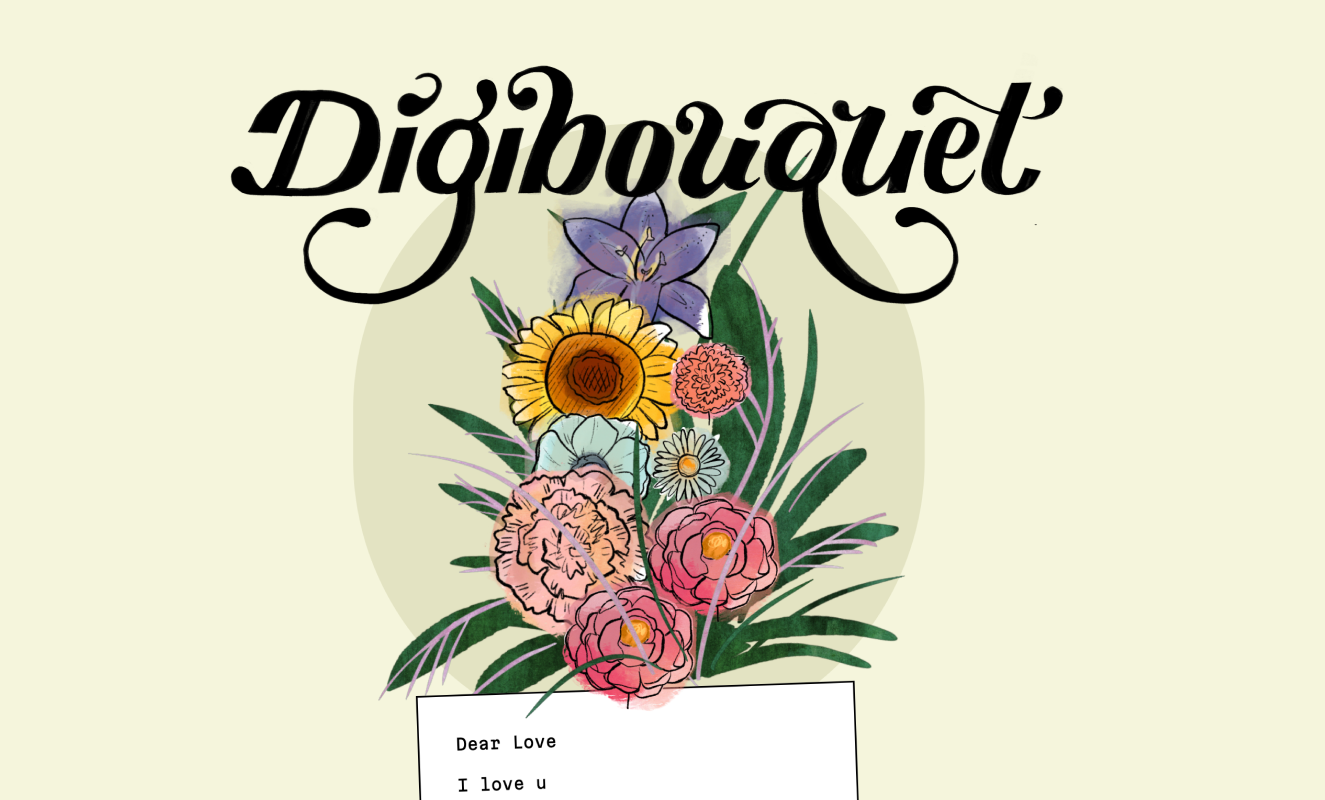
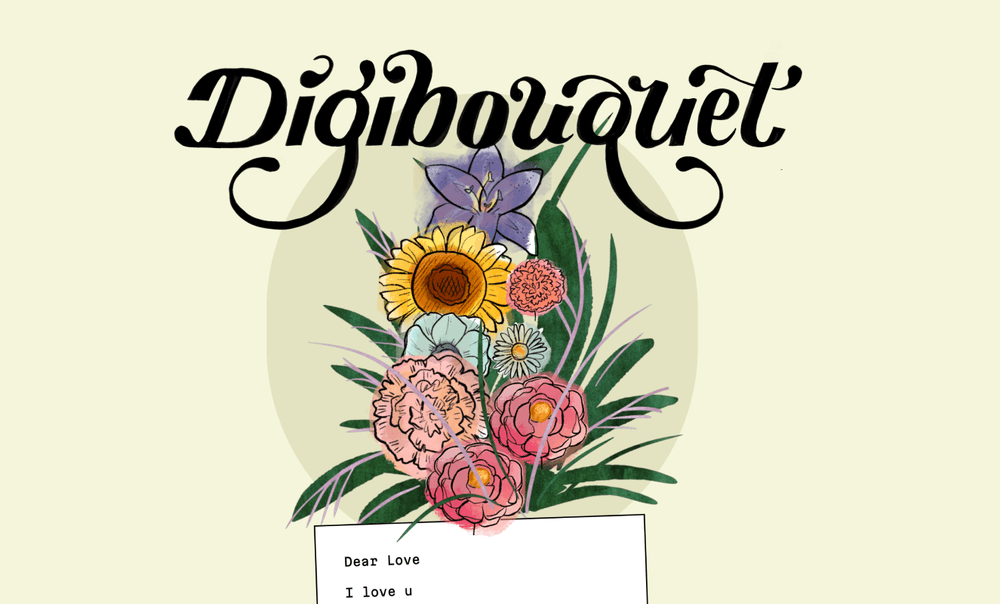
feat(perf): convert images to webp and add caching headers - Compressed all images and converted to WebP for ~90% size reduction - Added long-term caching headers in next.config.mjs - Updated all image references in code from .png to .webp - Enhanced CardWriter responsiveness and Arabic layout - Imp

diff --git a/components/bouquet/Bouquet.tsx b/components/bouquet/Bouquet.tsx
@@ -12,15 +12,15 @@ export default function Bouquet({ bouquet, lang }: BouquetReadOnlyProps & { lang
   };
 
   const calculateFontSize = (text: string, containerWidth = 280) => {
-    if (!text) return 13;
+    if (!text) return 16;
     const charCount = text.length;
-    const minSize = 10;
-    const maxSize = 15;
-    return Math.max(minSize, Math.min(maxSize, containerWidth / (charCount * 0.5)));
+    const minSize = 12;
+    const maxSize = 24;
+    return Math.max(minSize, Math.min(maxSize, containerWidth / (charCount * 0.45)));
   };
 
   const messageFontSize = calculateFontSize(bouquet.letter.message);
-  const senderFontSize = Math.max(10, Math.min(14, 280 / ((bouquet.letter.sender.length || 1) * 0.6)));
+  const senderFontSize = Math.max(11, Math.min(16, 280 / ((bouquet.letter.sender.length || 1) * 0.6)));
 
   return (
     // FIXED: Reduced paddingBottom from 160px to 145px
@@ -29,7 +29,7 @@ export default function Bouquet({ bouquet, lang }: BouquetReadOnlyProps & { lang
       {/* Ramadan logo - FIXED: More compact */}
       <div className="text-center pt-3 pb-1">
         <img
-          src="/ramadan.png"
+          src="/ramadan.webp"
           alt="Ramadan Kareem"
           className="mx-auto"
           width={170}
@@ -49,7 +49,7 @@ export default function Bouquet({ bouquet, lang }: BouquetReadOnlyProps & { lang
 
           {/* Bottom bush */}
           <img
-            src={`/${bouquet.mode}/bush/bush-${bouquet.greenery + 1}.png`}
+            src={`/${bouquet.mode}/bush/bush-${bouquet.greenery + 1}.webp`}
             alt=""
             className="absolute top-1/2 left-1/2 z-0 transform -translate-x-1/2 -translate-y-1/2"
             style={{ width: '550px', height: 'auto' }}
@@ -82,7 +82,7 @@ export default function Bouquet({ bouquet, lang }: BouquetReadOnlyProps & { lang
                         style={{ order: index }}
                       >
                         <img
-                          src={`/${bouquet.mode}/flowers/${flowerData.name}.png`}
+                          src={`/${bouquet.mode}/flowers/${flowerData.name}.webp`}
                           alt=""
                           width={dimensions}
                           height={dimensions}
@@ -99,7 +99,7 @@ export default function Bouquet({ bouquet, lang }: BouquetReadOnlyProps & { lang
 
           {/* Top bush */}
           <img
-            src={`/${bouquet.mode}/bush/bush-${bouquet.greenery + 1}-top.png`}
+            src={`/${bouquet.mode}/bush/bush-${bouquet.greenery + 1}-top.webp`}
             alt=""
             className="absolute top-1/2 left-1/2 z-12 transform -translate-x-1/2 -translate-y-1/2 pointer-events-none"
             style={{ width: '550px', height: 'auto' }}
@@ -122,10 +122,10 @@ export default function Bouquet({ bouquet, lang }: BouquetReadOnlyProps & { lang
 
               {/* Recipient */}
               <div className="mb-2" style={{ textAlign: lang === 'ar' ? 'right' : 'left' }}>
-                <span className="text-[8px] text-gray-400 block mb-0.5">
+                <span className="text-[10px] text-gray-500 block mb-0.5 font-bold opacity-70">
                   {lang === 'ar' ? "إلى" : "Dear"}
                 </span>
-                <p className="text-xs font-bold">
+                <p className="text-sm font-bold">
                   {bouquet.letter.recipient}
                 </p>
               </div>
@@ -142,19 +142,19 @@ export default function Bouquet({ bouquet, lang }: BouquetReadOnlyProps & { lang
 
               {/* Footer */}
               <div className="flex justify-between items-end mt-2 pt-2">
-                <div className={lang === 'ar' ? 'order-2' : 'order-1'}>
+                <div>
                   <img
-                    src="/crescent.png"
+                    src="/crescent.webp"
                     alt=""
-                    width={18}
-                    height={18}
+                    width={24}
+                    height={24}
                     className={lang === 'ar' ? 'scale-x-[-1]' : ''}
                     loading="eager"
                   />
                 </div>
 
-                <div className={lang === 'ar' ? 'order-1' : 'order-2'} style={{ textAlign: lang === 'ar' ? 'left' : 'right' }}>
-                  <span className="text-[8px] text-gray-400 block mb-0.5">
+                <div style={{ textAlign: lang === 'ar' ? 'left' : 'right' }}>
+                  <span className="text-[10px] text-gray-500 block mb-0.5 font-bold opacity-70">
                     {lang === 'ar' ? "من" : "Sincerely,"}
                   </span>
                   <p className="font-bold text-xs" style={{ fontSize: `${senderFontSize}px` }}>

diff --git a/components/stages/CardWriter.tsx b/components/stages/CardWriter.tsx
@@ -13,21 +13,21 @@ export default function CardWriter() {
           {/* White card container with black border */}
           <div className="hidden md:flex flex-row items-center justify-center -space-x-12">
             <Image
-              src={`/full/flowers/daisy.png`}
+              src={`/full/flowers/daisy.webp`}
               alt="card front"
               width={140}
               height={200}
               className="-rotate-12 hover:-translate-y-4 transition-all duration-300"
             />
             <Image
-              src={`/full/flowers/lily.png`}
+              src={`/full/flowers/lily.webp`}
               alt="card front"
               width={140}
               height={200}
               className="-translate-y-5 hover:-translate-y-4 transition-all duration-300"
             />
             <Image
-              src={`/full/flowers/anemone.png`}
+              src={`/full/flowers/anemone.webp`}
               alt="card front"
               width={140}
               height={200}
@@ -35,7 +35,7 @@ export default function CardWriter() {
             />
           </div>
 
-          <div className="bg-white border-2 border-black p-10 max-w-lg mx-4 md:mx-10 relative" dir={lang === 'ar' ? 'rtl' : 'ltr'}>
+          <div className="bg-white border-2 border-black p-6 md:p-10 w-full max-w-[90vw] md:max-w-lg mx-auto relative md:mx-10" dir={lang === 'ar' ? 'rtl' : 'ltr'}>
             {/* Crescent Moon Image - Bottom Left for Arabic, Bottom Right for English (as per user request "maybe even not add crsecent just add crescent finally when done typing") - Wait, user said "maybe even not add crsecent just add crescent finally when done typing". 
              Let's re-read: "okay maybe even not add crsecent just add crescent finally when done typing."
              So REMOVE crescent from here. OK. */}
@@ -110,21 +110,21 @@ export default function CardWriter() {
 
           <div className="hidden md:flex flex-row items-center justify-center -space-x-12">
             <Image
-              src={`/full/flowers/carnation.png`}
+              src={`/full/flowers/carnation.webp`}
               alt="card front"
               width={140}
               height={200}
               className="-rotate-12 hover:-translate-y-4 transition-all duration-300"
             />
             <Image
-              src={`/full/flowers/sunflower.png`}
+              src={`/full/flowers/sunflower.webp`}
               alt="card front"
               width={140}
               height={200}
               className="-translate-y-5 hover:-translate-y-4 transition-all duration-300"
             />
             <Image
-              src={`/full/flowers/peony.png`}
+              src={`/full/flowers/peony.webp`}
               alt="card front"
               width={140}
               height={200}

diff --git a/components/bouquet/BouquetOnly.tsx b/components/bouquet/BouquetOnly.tsx
@@ -23,7 +23,7 @@ export default function BouquetOnly({ bouquet }: BouquetReadOnlyProps) {
           {/* Bottom bush layer */}
 
           <Image
-            src={`/${bouquet.mode}/bush/bush-${bouquet.greenery + 1}.png`}
+            src={`/${bouquet.mode}/bush/bush-${bouquet.greenery + 1}.webp`}
             alt="bush background"
             width={600}
             height={500}
@@ -52,8 +52,8 @@ export default function BouquetOnly({ bouquet }: BouquetReadOnlyProps) {
                     // If flowerOrder exists, use it; otherwise use default order
                     const index = bouquet.flowerOrder?.length
                       ? bouquet.flowerOrder[
-                          flowerIndex * flower.count + instanceIndex
-                        ] ?? flowerIndex * flower.count + instanceIndex
+                      flowerIndex * flower.count + instanceIndex
+                      ] ?? flowerIndex * flower.count + instanceIndex
                       : flowerIndex * flower.count + instanceIndex;
 
                     // Get dimensions based on flower size
@@ -67,7 +67,7 @@ export default function BouquetOnly({ bouquet }: BouquetReadOnlyProps) {
                       >
                         {/* Individual flower image */}
                         <Image
-                          src={`/${bouquet.mode}/flowers/${flowerData.name}.png`}
+                          src={`/${bouquet.mode}/flowers/${flowerData.name}.webp`}
                           alt={flowerData.name}
                           width={dimensions}
                           height={dimensions}
@@ -86,7 +86,7 @@ export default function BouquetOnly({ bouquet }: BouquetReadOnlyProps) {
 
           <div>
             <Image
-              src={`/${bouquet.mode}/bush/bush-${bouquet.greenery + 1}-top.png`}
+              src={`/${bouquet.mode}/bush/bush-${bouquet.greenery + 1}-top.webp`}
               alt="bush top"
               width={600}
               height={500}

diff --git a/components/stages/BouquetCustomizer.tsx b/components/stages/BouquetCustomizer.tsx
@@ -76,7 +76,7 @@ export default function BouquetCustomizer() {
           {/* Bottom bush layer */}
 
           <Image
-            src={`/${bouquet.mode}/bush/bush-${bouquet.greenery + 1}.png`}
+            src={`/${bouquet.mode}/bush/bush-${bouquet.greenery + 1}.webp`}
             alt="bush background"
             width={600}
             height={500}
@@ -121,7 +121,7 @@ export default function BouquetCustomizer() {
                       >
                         {/* Individual flower image */}
                         <Image
-                          src={`/${bouquet.mode}/flowers/${flowerData.name}.png`}
+                          src={`/${bouquet.mode}/flowers/${flowerData.name}.webp`}
                           alt={flowerData.name}
                           width={dimensions}
                           height={dimensions}
@@ -140,7 +140,7 @@ export default function BouquetCustomizer() {
 
           <div>
             <Image
-              src={`/${bouquet.mode}/bush/bush-${bouquet.greenery + 1}-top.png`}
+              src={`/${bouquet.mode}/bush/bush-${bouquet.greenery + 1}-top.webp`}
               alt="bush top"
               width={600}
               height={500}

diff --git a/app/page.tsx b/app/page.tsx
@@ -36,7 +36,7 @@ export default function Home() {
         {/* Crescent Moon - Responsive Sizing */}
         <div className="mb-4 w-full flex justify-center">
           <Image
-            src="/ramadanfavicon.png"
+            src="/ramadanfavicon.webp"
             alt="ramadan icon"
             width={100}
             height={100}
@@ -48,7 +48,7 @@ export default function Home() {
         {/* Calligraphy - Responsive Sizing */}
         <div className="mb-8 w-full flex justify-center">
           <Image
-            src="/ramadan.png"
+            src="/ramadan.webp"
             alt="ramadan"
             width={600}
             height={400}

diff --git a/app/garden/page.tsx b/app/garden/page.tsx
@@ -20,7 +20,7 @@ export default async function AllBouquetsPage() {
       <div className="text-center p-6">
         <Link href="/">
           <Image
-            src="/digibouquet.png"
+            src="/digibouquet.webp"
             alt="digibouquet"
             width={200}
             height={80}
@@ -39,7 +39,7 @@ export default async function AllBouquetsPage() {
     <div className="text-center p-6">
       <Link href="/">
         <Image
-          src="/digibouquet.png"
+          src="/digibouquet.webp"
           alt="digibouquet"
           width={200}
           height={80}

diff --git a/components/stages/FlowerPicker.tsx b/components/stages/FlowerPicker.tsx
@@ -83,7 +83,7 @@ export default function FlowerPicker() {
 
                     <Image
                       src={
-                        "/" + bouquet.mode + "/flowers/" + flower.name + ".png"
+                        "/" + bouquet.mode + "/flowers/" + flower.name + ".webp"
                       }
                       alt={lang === 'ar' ? (flower.nameAr || flower.name) : flower.name}
                       width={

diff --git a/components/bouquet/BouquetCreationFlow.tsx b/components/bouquet/BouquetCreationFlow.tsx
@@ -30,7 +30,7 @@ export default function BouquetCreationFlow() {
       {currentStep !== 3 && (
         <Link href="/">
           <Image
-            src="/ramadan.png"
+            src="/ramadan.webp"
             alt="ramadan"
             width={200}
             height={80}

diff --git a/app/bouquet/[id]/page.tsx b/app/bouquet/[id]/page.tsx
@@ -38,7 +38,7 @@ export default async function BouquetPage(props: Params) {
       {/* Logo/Branding */}
       <Link href="/">
         <Image
-          src="/ramadan.png"
+          src="/ramadan.webp"
           alt="ramadan"
           width={200}
           height={80}
